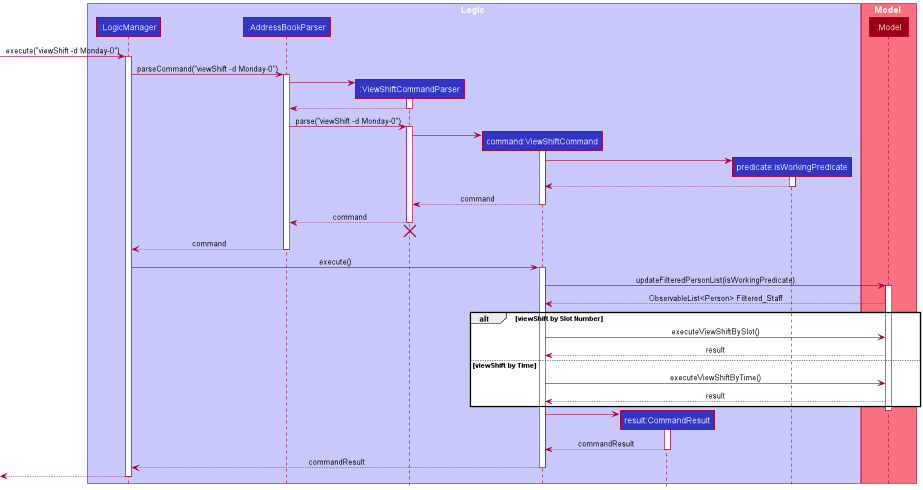
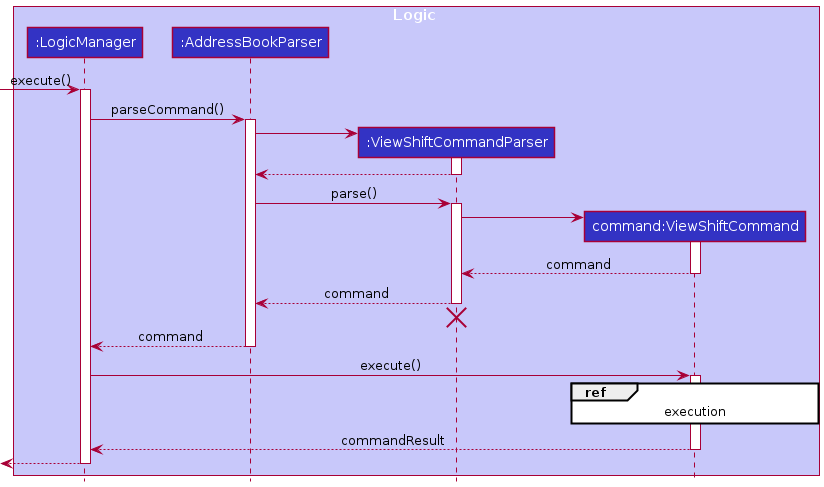
Change viewShiftCommand diagrams

diff --git a/docs/DeveloperGuide.md b/docs/DeveloperGuide.md
@@ -397,7 +397,7 @@ Step 5. Following this, the displayed staff list will display the updated filter
 
 The activity diagram of this `Find` command is shown below:
 
-![Find Command Sequence Diagram](images/findCommand/findSequenceDiagram.png)
+![Find Command Sequence Diagram](images/findCommand/FindSequenceDiagram.png)
 
 Notes:
 
@@ -448,9 +448,10 @@ for staff who are working at that particular timing.
 Step 5. Following this, the displayed staff list will display the updated filtered list, and the names of those working will
 also be outputted on the left of the GUI.
 
-The activity diagram of this `Find` command is shown below:
+The activity diagram of this `viewShift` command is shown below:
 
 ![ViewShift Command Sequence Diagram](images/viewShiftCommand/ViewShiftSequenceDiagram.png)
+![ViewShiftCommand Execution Diagram](images/viewShiftCommand/ViewShiftCommandExecutionSequenceDiagram.png)
 
 Notes:
 
